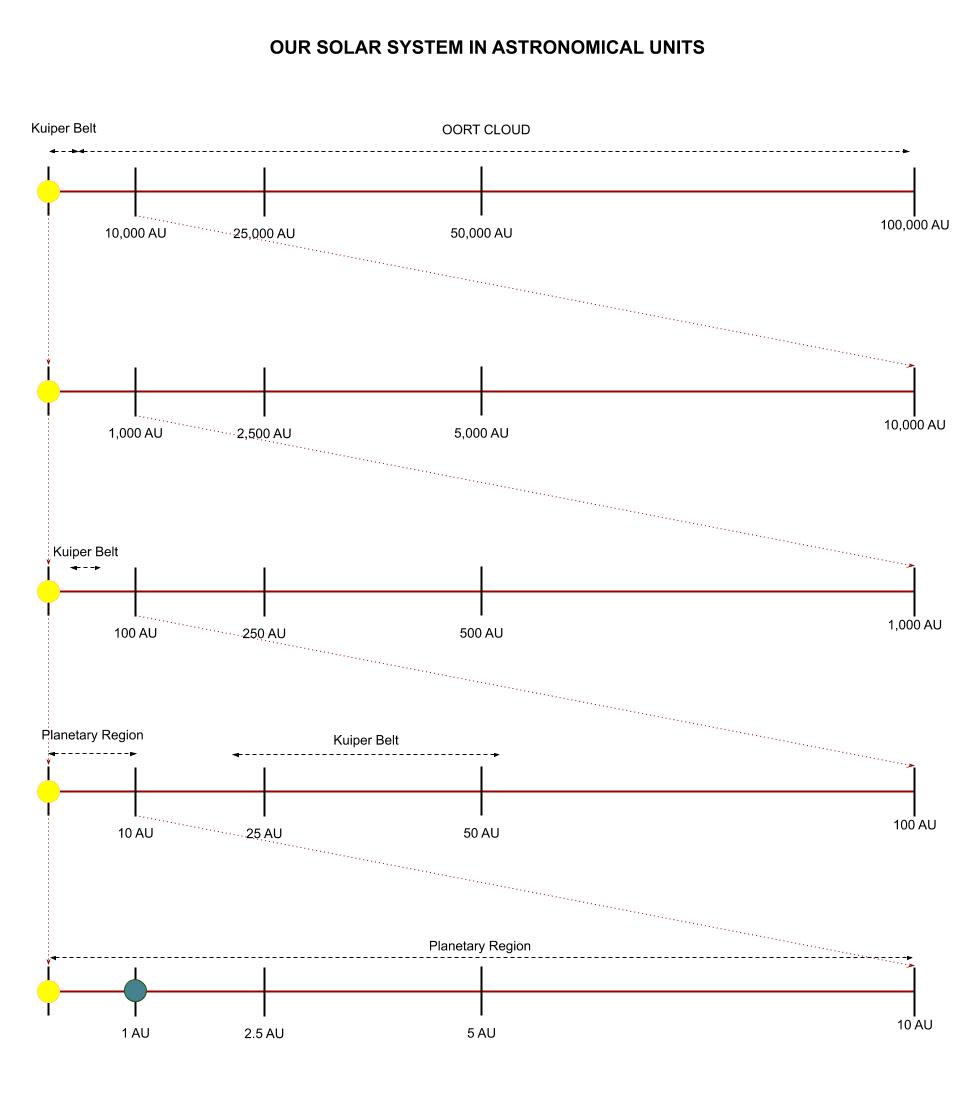
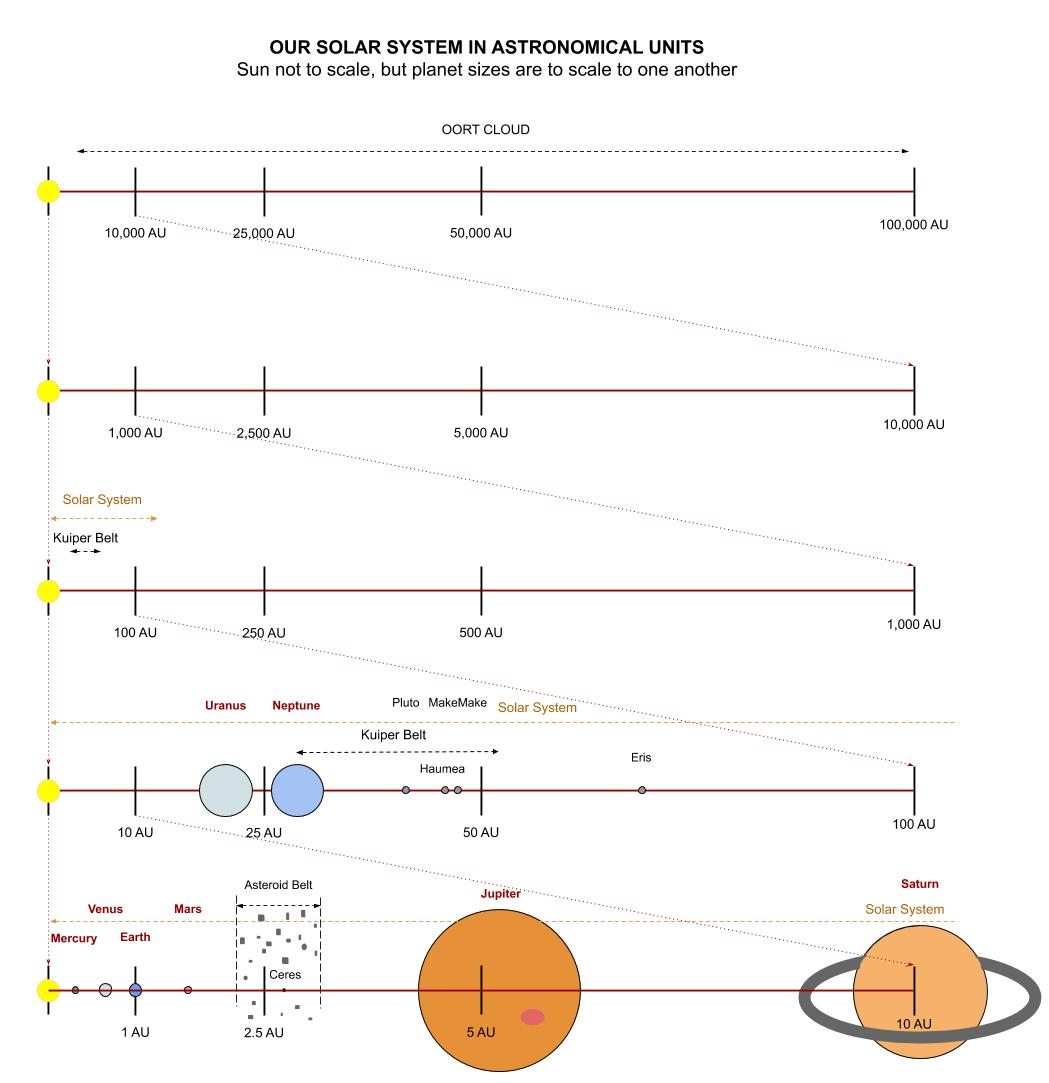
updated astronomy

diff --git a/other/science/earth-and-space-science/astronomy-cheat-sheet/solar-system.md b/other/science/earth-and-space-science/astronomy-cheat-sheet/solar-system.md
@@ -43,7 +43,7 @@ It's approximately 8 light-minutes. More exactly,
 
 ## SOLAR SYSTEM
 
-* ?? AU from the sun
+* 0-122 AU from the sun.
 * 99.86% of the system’s mass is found in the Sun and the majority of the
   remaining 0.14% is contained within the solar system’s eight planets.
 * The four smaller inner planets, also known as the “terrestrial planets”
@@ -57,7 +57,7 @@ It's approximately 8 light-minutes. More exactly,
 
 ## SUN
 
-Our sun, in the grand scheme of things, the sun is not very large,
+Our sun, in the grand scheme of things the sun is not very large and
 not very hot.
 
 * About 4.5 billions years old
@@ -74,17 +74,18 @@ not very hot.
 
 ## INNER PLANETS
 
-?? AU from the sun
+* .39-1.52 AU from the sun
+
 The four smaller inner planets, also known as the “terrestrial planets”
 (Mercury, Venus, Earth and Mars), are primarily composed of rock and metal.
 
 ### MERCURY
 
 * Distance: .39 AU from the sun
-* Orbit Period: 88 days to orbit the sun
-* Rotate Axis: 176 days
-* Surface Temperature: 427&deg;C to -173&deg;C
-* Diameter: 4,879 km 
+* Orbit Period: 87.96 days to orbit the sun
+* Rotate Axis: 58.7 days
+* Surface Temperature: -173&deg;C to 427&deg;C 
+* Diameter: 4,878 km (3,031 miles) 
 * Mass: 5.5% of earth
 * Moons: None
 * Notable facts:
@@ -96,124 +97,239 @@ The four smaller inner planets, also known as the “terrestrial planets”
 
 ### VENUS
 
-* ?? AUs from the sun
-* 225 days to orbit the sun
-* 243 days to rotate on axis
-* Co2 is at 96.5%, whereas earth is .04%
-  * These levels trap heat which causes greenhouse effect
-  * Temp is 462&deg;C
-* Pressure is 90 times of earth
-* Aside from sun and moon, brightest object in sky
+* Distance: .723 AU from the sun
+* Orbit Period: 224.68 days to orbit the sun
+* Rotate Axis: 243 days
+* Surface Temperature: Can reach 471&deg;C
+* Diameter: 12,104 km (7,521 miles) About the same size as earth
+* Mass: 81.5% of earth
+* Notable facts:
+  * Co2 is at 96.5%, whereas earth is .04%
+  * Pressure is 90 times of earth
+  * Aside from sun and moon, brightest object in sky
+  * Venus is thought to be made up of a central iron core,
+    rocky mantle and silicate crust.
+  * Hottest planet in our solar system.
 
 ### EARTH
 
-* 1 AU from the sun (amazing)
-* 365.24 days to orbit the sun
-* 1 days to rotate on axis (what a coincidence)
+* Distance: 1 AU (93,000,000 miles) from the sun
+* Orbit Period: 365.26 days to orbit the sun
+* Rotate Axis: 1 day
+* Surface Temperature: -88&deg;C to 58&deg;C
+* Diameter: 12,756 km (7,926 miles) 
+* Mass: 100% of earth
+* Moons: Look up
+* Notable facts:
+  * Powerful magnetic field
+  * Only planet not named after a god
+  * I live here
 
 #### THE MOON
 
-* 27 days to orbit the earth
-* Copernicus and Brahe have craters named after them
-* Synchronous rotation
-* We think Formed by another planet (thea) hitting the earth
-  * To big to be just passing by and caught in orbit
-* Formed 30-50 million after the solar system.
+* Distance: 384,400 km from earth
+* Orbit Period: 27.3 days to orbit the sun
+* Rotate Axis: 27.3 days
+* Surface Temperature: -233&deg;C to 123&deg;C
+* Diameter: 3,475 km
+* Mass: .01% of earth
+* Notable facts
+  * Actually made of cheese
+  * Synchronous rotation
+  * Copernicus and Brahe have craters named after them
+  * We think Formed by another planet (thea) hitting the earth
+    * To big to be just passing by and caught in orbit
+  * Formed 30-50 million after the solar system.
 
 ### MARS
 
-* ?? AU from the sun
-* About 2 years (687 days) to orbit the sun
-* 24.6 rotate on axis
-* Thin atmosphere of C02 and can reach -5&deg; in daylight
+* Distance: 1.524 AU from the sun
+* Orbit Period: About 2 years (686.98 days) to orbit the sun
+* Rotate Axis: 24.6 hours
+* Surface Temperature: -153&deg;C to 20&deg;C
+* Diameter: 4,879 km (6,787 miles)
+* Mass: 10.7% of earth
+* Moons: 2
+  * Phobos
+  * Deimos
+* Notable facts:
+  * Mars and Earth have approx the same land mass
+  * Martian surface gravity is only 37% of the Earth's
+  * Thin atmosphere of C02
+  * Massive dust storms
+  * Tallest mountain in the solar system, at 21KM high
+  * Second smallest planet in the solar system
 
 ## THE ASTEROID BELT
 
-* ?? AU from the sun
+* 2.2-3.2 AU from the sun (about 1 AU thick)
 * Millions of asteroids in this belt
 * 200 known asteroids are larger than 100km
-* Ceres is dwarf planet like Pluto
+* Notable Asteroids
+  * Ceres is dwarf planet like Pluto
+* Asteroid Belt objects are made of rock and stone. 
+
+### CERES
+
+* Distance: 2.8 AU from the sun
+* Orbit Period: 4.6 years to orbit the sun
+* Rotate Axis: tbd
+* Surface Temperature: -105&deg;C
+* Diameter: 950 km (590 miles)
+* Mass: tbd
+* Notable facts:
+  * Ceres accounts for one third of the mass in the asteroid belt.
 
 ## OUTER PLANETS
 
-* ?? AU from the sun
+* 5.203-30.06 AU from the sun
+
 The four outer planets, also known as the “gas giants”
 (Jupiter, Saturn, Uranus and Neptune), are substantially
 larger and more massive than the inner planets.
 
 ### JUPITER
 
-* ?? AU from the sun
-* 433 days to orbit sun
-* 10 hours to rotate on axis
-* The King of Planets
-* The red dot is a storm that has been ragging for over 300 years.
-* 67 Moons
-  * Gallileo discovered 4 of them.
-* Mainly composed mainly of hydrogen and helium
+* Distance: 5.203 AU from the sun
+* Orbit Period: 11.862 years to orbit the sun
+* Rotate Axis: 9.84 hours
+* Surface Temperature: -148&deg;C to tbd&deg;C
+* Diameter: 142,796 km (88,729 miles)
+* Mass: 318 earths
+* Moons: 67 (Gallileo discovered 4 of them)
+  * Ganymede - Largest Moon in solar system (Larger than mercury)
+* Notable facts
+  * 4th brightest object in solar system
+  * Largest Planet
+  * The King of Planets
+  * The red dot is a storm that has been ragging for over 300 years.
+  * Mainly composed mainly of hydrogen and helium
 
 ### SATURN
 
-* 30 years to orbit sun
-* 10 hours to rotate on axis
-* Furthest planet we can see with naked eye from earth
-* Largest moon is titan
-* Mainly composed mainly of hydrogen and helium
+* Distance: 9.539 AU from the sun
+* Orbit Period: 29.456 days to orbit the sun
+* Rotate Axis: 10.2 hours
+* Surface Temperature: -178&deg;C
+* Diameter: 120,660 km (74,600 miles) 
+* Mass: 95 earths
+* Moons: 62
+  * Titan
+* Rings
+  * Saturn’s rings are made up of are billions of particles
+    that range in size from tiny dust grains to to objects as large as mountains.
+* Notable facts:
+  * Furthest planet we can see with naked eye from earth
+  * Mainly composed mainly of hydrogen and helium
 
 ### URANUS
 
-* 84 years to orbit sun
-* 243 days to rotate on axis
-* Can't be seen by naked eye
-* Axis is at 98&deg;, Pole always faces the sun
-* All 27 moons named after Shakespearean characters 
+* Distance: 19.18 AU from the sun
+* Orbit Period: 84.07 days to orbit the sun
+* Rotate Axis: 17.9 hours
+* Surface Temperature: -216&deg;C
+* Diameter: 51,118 km (32,600 miles)
+* Mass: 15 earths
+* Moons: 27 (named after Shakespearean characters)
+* Rings: 13
+  * Uranus has two sets of very thin dark colored rings
+* Notable facts
+  * It has a funny name that kids love
+  * Can't be seen by naked eye
+  * Axis is at 98&deg;, Pole always faces the sun
 
 ### NEPTUNE
 
-* 165 years to orbit sun
-* 15 hours to rotate on axis
-* Extreme weather
-
-## DWARF PLANETS
-
-A celestial body resembling a small planet
-but lacking certain technical criteria that
-are required for it to be classed as such
-
-### PLUTO
-
-* ?? AU from the sun
-* 248 years to orbit sun
-* 6.4 days to rotate on axis
-* De-classified in 2006
-* Has 5 moons
-* Pluto's orbit is off, so it seems Pluto was captured by the sun
-
-### ERIS
-
-* ?? AU from the sun
-* 558 years to orbit sun
-
-### HAUMEA
-
-* ?? AU from the sun
-* 285 years orbit
+* Distance: 30.06 AU from the sun
+* Orbit Period: 164.81 years to orbit the sun
+* Rotate Axis: 19.1 hours
+* Surface Temperature: -214&deg;C
+* Diameter: 48,600 km (30,200 miles)
+* Mass: 17 earths
+* Moons: 14
+* Rings: 5
+  * Neptune has a very thin collection of rings.
+* Notable facts
+  * Extreme weather
+  * Neptune has an incredibly thick atmosphere comprised of
+    74% hydrogen, 25% helium and approximately 1% methane.
 
 ## KUIPER BELT
 
-* 30-55 AU from the sun
+* 30-55 AU from the sun (25 AU thick)
 * Lots of stuff and its huge
 * Chunks of ice
 * More dwarf Planets
+  * Pluto
+  * Haumea
+  * Makemake
 * Commits
 * Stretches across 20 astronomical units (AU) of space
 * Area of the outer solar system
 
+### PLUTO
+
+* Distance: 39.53 AU from the sun
+* Orbit Period: 247.7 years to orbit the sun
+* Rotate Axis: 6.39 days
+* Surface Temperature: -229&deg;C
+* Diameter: 2,274 km (1,413 miles) 
+* Mass: tbd
+* Moons: 5
+* Notable facts
+  * De-classified as planet in 2006
+  * Pluto's orbit is off the plane, so it seems Pluto was captured by the sun
+  * Pluto is one third water
+
+### HAUMEA
+
+* Distance: 43.13 AU from the sun
+* Orbit Period: 283.3 years to orbit the sun
+* Rotate Axis: 3.9 hours
+* Surface Temperature: -241&deg;C
+* Diameter: 1,960 km (1,220 Miles) 
+* Mass: tbd
+* Moons: 2
+  * Hiiaka
+  * Namaka
+* Notable face:
+  * Unique in its elongated shape making it the least
+    spherical of the dwarf planets.
+
+### MAKEMAKE
+
+* Distance: 45.79 AU from the sun
+* Orbit Period: 309.9 years to orbit the sun
+* Rotate Axis: tbd
+* Surface Temperature: -239&deg;C
+* Diameter: 1,434 km (891 miles) 
+* Mass: tbd
+* Moons: 1
+* Notable facts
+  * Third largest dwarf planet in the solar system
+
+## ERIS
+
+* Distance: 68.01 AU from the sun
+* Orbit Period: 560.9 years
+* Rotate Axis: tbd
+* Surface Temperature: -231&deg;C
+* Diameter: 2,326 km 
+* Mass: tbd
+* Moons: 1
+  * Dysnomia
+* Notable facts:
+  * Eris was once considered for the position of tenth planet.
+
 ## OORT CLOUD
 
-* ?? AU from the sun
+The Oort Cloud is a theorized shell of icy objects that lie beyond the Kuiper Belt,
+as such the facts detailed on this page are hypothetical.
+
+* 2,000-100,000 AU from the sun
 * Bubble around our solar system
 * Huge region (Most of our solar system)
 * Trillions of objects our there
 * Extended shell of icy objects that exist
   in the outermost reaches of the solar system
+* 

diff --git a/other/science/earth-and-space-science/astronomy-cheat-sheet/README.md b/other/science/earth-and-space-science/astronomy-cheat-sheet/README.md
@@ -238,6 +238,12 @@ What is a planet?
 
 The problem with Pluto could not clear the area around its orbit.
 
+### DWARF PLANETS
+
+A celestial body resembling a small planet
+but lacking certain technical criteria that
+are required for it to be classed as such
+
 ## WHAT OBJECTS HAVE WE LANDED ON
 
 List of landings on extraterrestrial bodies,
